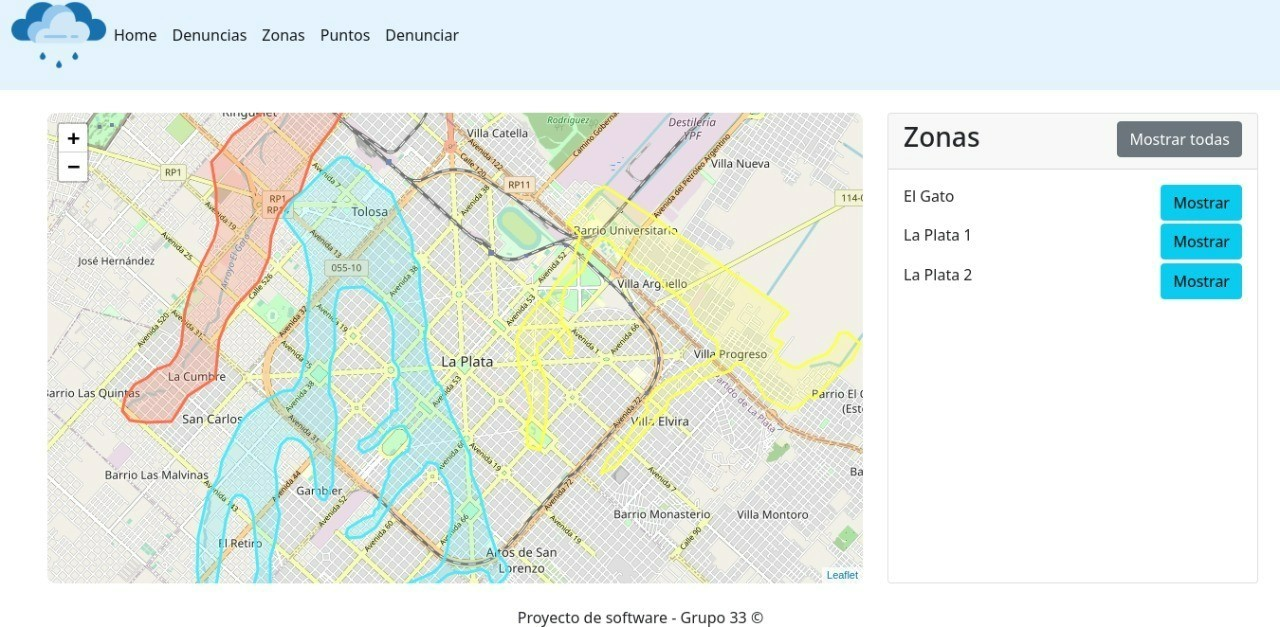
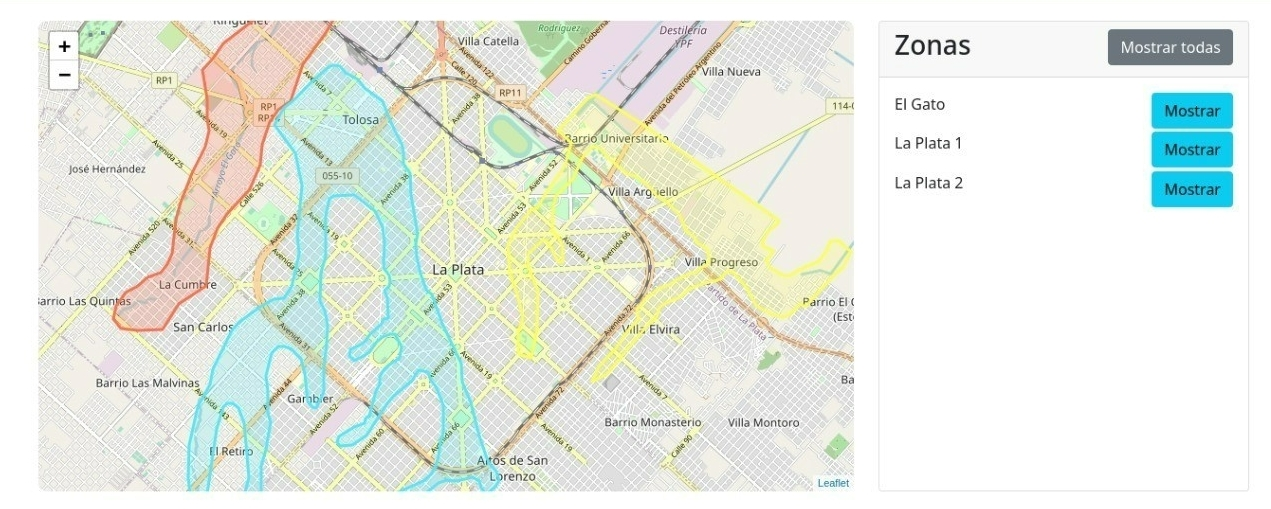
styling de los botones de zonas, fix de crear punto y ahora coordenadas es un text

diff --git a/web/src/views/Zonas.vue b/web/src/views/Zonas.vue
@@ -6,13 +6,13 @@
         <div v-if="zonas">
           <div class="card-header">
             <h3>Zonas
-            <button @click="showAll()">Show All</button>
+            <button @click="showAll()" class="btn btn-secondary">Mostrar todas</button>
             </h3>
           </div>
           <div class="card-body">
-            <div v-for="row in all" v-bind:key="row" style="margin-bottom:2%">
+            <div v-for="row in all" v-bind:key="row" style="margin-bottom:5%">
                 <label>{{row.nombre}}</label>
-                <button @click="show(row)">Show</button>
+                <button @click="show(row)" class="btn btn-info">Mostrar</button>
             </div>
              
           </div> 
@@ -57,7 +57,6 @@ export default {
 <style scoped>
 div{
     text-align: left;
-    margin-bottom:2%
 }
 button{
     float:right

diff --git a/web/src/App.vue b/web/src/App.vue
@@ -7,7 +7,7 @@
           <img alt="Vue logo" src="@/assets/logo.png" width="100" height="100"> 
           <ul class="navbar-nav my-2 my-lg-0 me-sm-0 my-sm-0">
             <li class="nav-item">
-              <router-link class="nav-link active" to="/" aria-current="page">Home</router-link>
+              <router-link class="nav-link active" to="/" aria-current="page">Inicio</router-link>
             </li>
             <li class="nav-item">
               <router-link class="nav-link active" to="/denuncias" aria-current="page">Denuncias</router-link>

diff --git a/app/helpers/forms.py b/app/helpers/forms.py
@@ -99,8 +99,8 @@ class RecorridoEditForm(FlaskForm):
     
 #Form de Punto
 class PuntoForm (FlaskForm):
-    email = EmailField('Email del denunciante', validators=[Email(message="Email no valido"),DataRequired(message="Campo requerido"), Length(max=30)])
-    nombre = StringField('Nombre de usuario',[DataRequired(message=('Campo requerido')),
+    email = EmailField('Email de contacto', validators=[Email(message="Email no valido"),DataRequired(message="Campo requerido"), Length(max=30)])
+    nombre = StringField('Nombre del punto',[DataRequired(message=('Campo requerido')),
                                               Length(max=30,message="No se pueden mas de 30 caracteres")])
     lat = HiddenField('punto-lat',id='punto-lat')
     lng = HiddenField('punto-lng',id='punto-lng') 
@@ -109,9 +109,9 @@ class PuntoForm (FlaskForm):
 
 class PuntoEditForm(FlaskForm):
     id = HiddenField('id')
-    email = EmailField('Email del denunciante', validators=[Email(message="Email no valido"),DataRequired(message="Campo requerido"), Length(max=30)])
-    nombre = StringField('Nombre de punto',[DataRequired(message=('Campo requerido')),
+    nombre = StringField('Nombre del punto',[DataRequired(message=('Campo requerido')),
                                               Length(max=30,message="No se pueden mas de 30 caracteres")])
+    email = EmailField('Email de contacto', validators=[Email(message="Email no valido"),DataRequired(message="Campo requerido"), Length(max=30)])
     lat = HiddenField('punto-lat',id='punto-lat')
     lng = HiddenField('punto-lng',id='punto-lng')  
     estado = SelectField('Estado', choices=[("publicado",'Publicado'),("despublicado",'Despublicado')])

diff --git a/app/models/recorrido.py b/app/models/recorrido.py
@@ -16,7 +16,7 @@ class Recorrido(db.Model):
     nombre = db.Column(String(30), unique=True,nullable=False)
     descripcion = db.Column(String(60))
     estado = db.Column(ChoiceType(ESTADOS))
-    coordenadas = db.Column(db.String(255), nullable=False)
+    coordenadas = db.Column(db.Text, nullable=False)
 
     def __init__(self,nombre=None, descripcion=None, coordenadas=None, estado=None):
         self.nombre = nombre

diff --git a/app/resources/punto.py b/app/resources/punto.py
@@ -63,7 +63,6 @@ def create():
     form = PuntoForm()
     data= dict(form.data)
     del data["csrf_token"]
-    del data["punto_nombre"]
     new_punto = Punto(**data)
     
     if not form.validate_on_submit():
